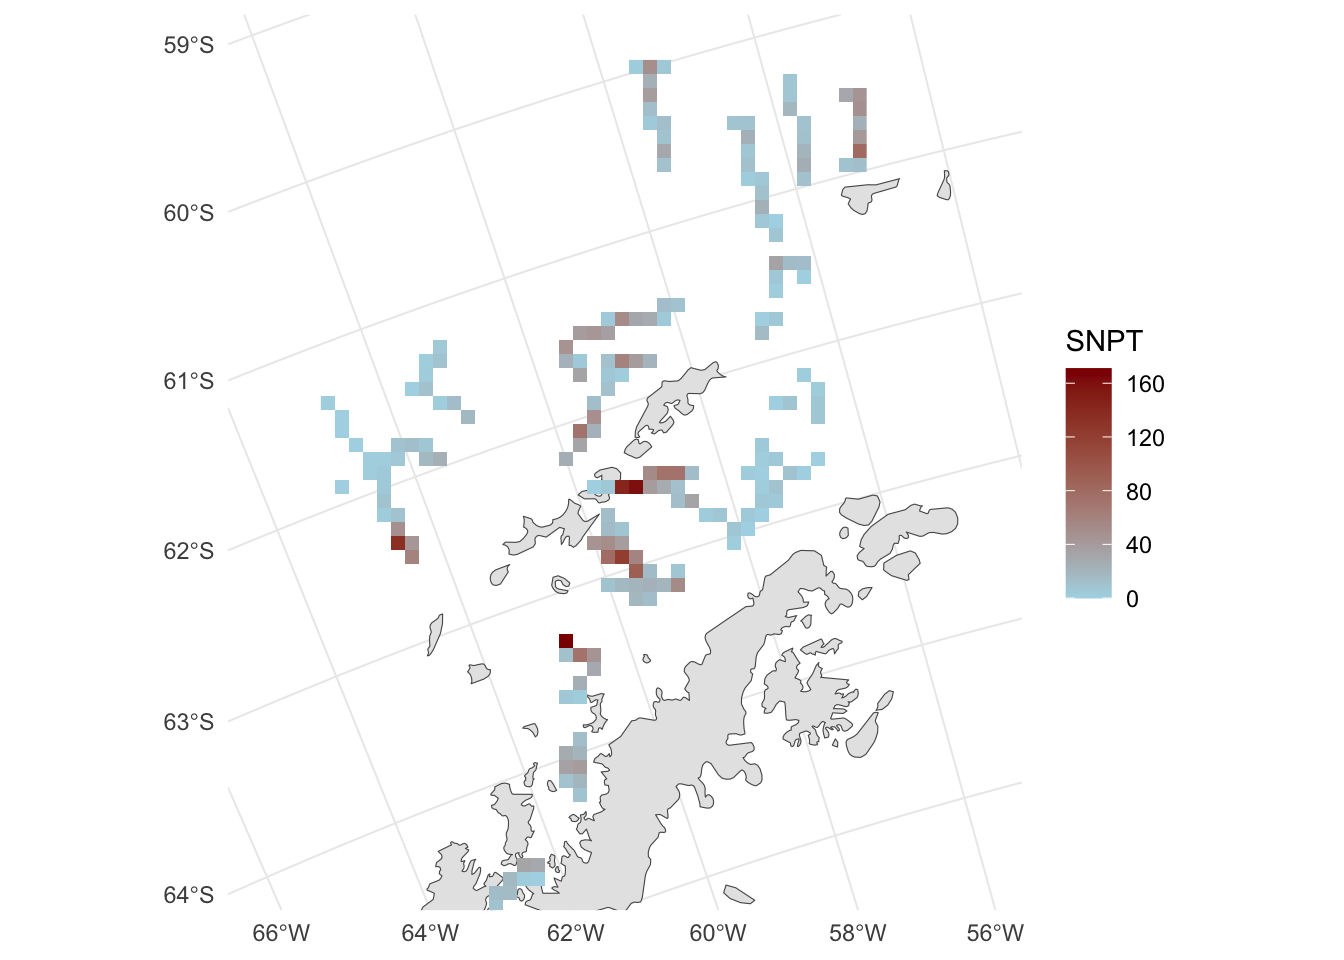
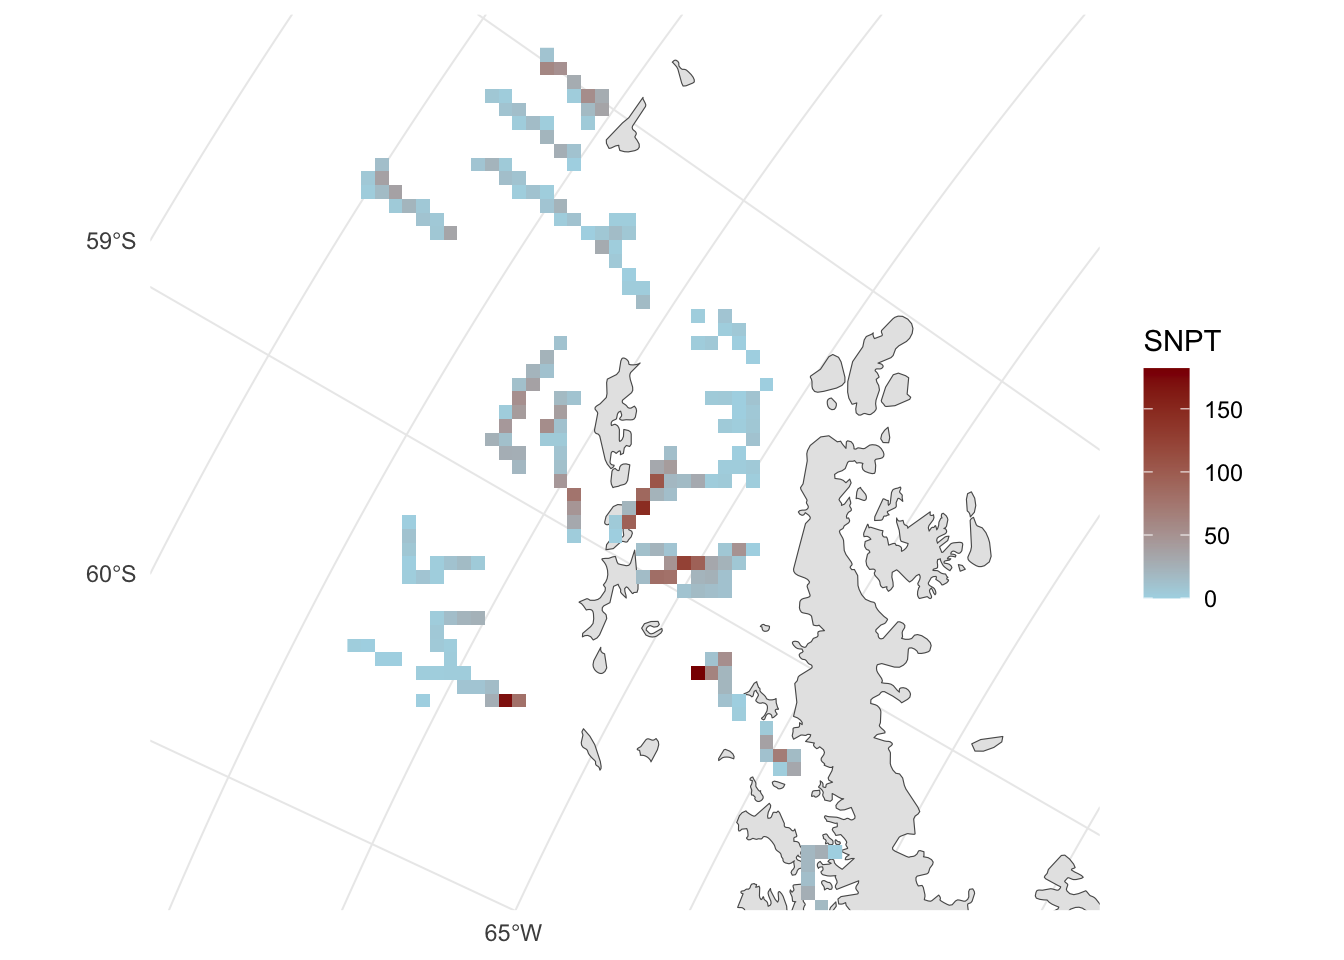
Change over from SG tto ANT terminology

diff --git a/docs/02_stations.html b/docs/02_stations.html
@@ -7,7 +7,7 @@
 <meta name="viewport" content="width=device-width, initial-scale=1.0, user-scalable=yes">
 
 
-<title>Predator summary</title>
+<title>Station summary</title>
 <style>
 code{white-space: pre-wrap;}
 span.smallcaps{font-variant: small-caps;}
@@ -20,69 +20,6 @@ ul.task-list li input[type="checkbox"] {
   margin: 0 0.8em 0.2em -1.6em;
   vertical-align: middle;
 }
-pre > code.sourceCode { white-space: pre; position: relative; }
-pre > code.sourceCode > span { display: inline-block; line-height: 1.25; }
-pre > code.sourceCode > span:empty { height: 1.2em; }
-.sourceCode { overflow: visible; }
-code.sourceCode > span { color: inherit; text-decoration: inherit; }
-div.sourceCode { margin: 1em 0; }
-pre.sourceCode { margin: 0; }
-@media screen {
-div.sourceCode { overflow: auto; }
-}
-@media print {
-pre > code.sourceCode { white-space: pre-wrap; }
-pre > code.sourceCode > span { text-indent: -5em; padding-left: 5em; }
-}
-pre.numberSource code
-  { counter-reset: source-line 0; }
-pre.numberSource code > span
-  { position: relative; left: -4em; counter-increment: source-line; }
-pre.numberSource code > span > a:first-child::before
-  { content: counter(source-line);
-    position: relative; left: -1em; text-align: right; vertical-align: baseline;
-    border: none; display: inline-block;
-    -webkit-touch-callout: none; -webkit-user-select: none;
-    -khtml-user-select: none; -moz-user-select: none;
-    -ms-user-select: none; user-select: none;
-    padding: 0 4px; width: 4em;
-    color: #aaaaaa;
-  }
-pre.numberSource { margin-left: 3em; border-left: 1px solid #aaaaaa;  padding-left: 4px; }
-div.sourceCode
-  {   }
-@media screen {
-pre > code.sourceCode > span > a:first-child::before { text-decoration: underline; }
-}
-code span.al { color: #ff0000; font-weight: bold; } /* Alert */
-code span.an { color: #60a0b0; font-weight: bold; font-style: italic; } /* Annotation */
-code span.at { color: #7d9029; } /* Attribute */
-code span.bn { color: #40a070; } /* BaseN */
-code span.bu { color: #008000; } /* BuiltIn */
-code span.cf { color: #007020; font-weight: bold; } /* ControlFlow */
-code span.ch { color: #4070a0; } /* Char */
-code span.cn { color: #880000; } /* Constant */
-code span.co { color: #60a0b0; font-style: italic; } /* Comment */
-code span.cv { color: #60a0b0; font-weight: bold; font-style: italic; } /* CommentVar */
-code span.do { color: #ba2121; font-style: italic; } /* Documentation */
-code span.dt { color: #902000; } /* DataType */
-code span.dv { color: #40a070; } /* DecVal */
-code span.er { color: #ff0000; font-weight: bold; } /* Error */
-code span.ex { } /* Extension */
-code span.fl { color: #40a070; } /* Float */
-code span.fu { color: #06287e; } /* Function */
-code span.im { color: #008000; font-weight: bold; } /* Import */
-code span.in { color: #60a0b0; font-weight: bold; font-style: italic; } /* Information */
-code span.kw { color: #007020; font-weight: bold; } /* Keyword */
-code span.op { color: #666666; } /* Operator */
-code span.ot { color: #007020; } /* Other */
-code span.pp { color: #bc7a00; } /* Preprocessor */
-code span.sc { color: #4070a0; } /* SpecialChar */
-code span.ss { color: #bb6688; } /* SpecialString */
-code span.st { color: #4070a0; } /* String */
-code span.va { color: #19177c; } /* Variable */
-code span.vs { color: #4070a0; } /* VerbatimString */
-code span.wa { color: #60a0b0; font-weight: bold; font-style: italic; } /* Warning */
 </style>
 
 
@@ -108,7 +45,7 @@ code span.wa { color: #60a0b0; font-weight: bold; font-style: italic; } /* Warni
 
 <header id="title-block-header" class="quarto-title-block default">
 <div class="quarto-title">
-<h1 class="title">Predator summary</h1>
+<h1 class="title">Station summary</h1>
 </div>
 
 
@@ -123,96 +60,8 @@ code span.wa { color: #60a0b0; font-weight: bold; font-style: italic; } /* Warni
 
 </header>
 
-<section id="south-georgia-winter-predators" class="level2">
-<h2 class="anchored" data-anchor-id="south-georgia-winter-predators">South Georgia winter predators</h2>
-<section id="counts" class="level3">
-<h3 class="anchored" data-anchor-id="counts">Counts</h3>
-<p>The six most abundant species.</p>
-<div class="cell">
-<details>
-<summary>Code</summary>
-<div class="sourceCode cell-code" id="cb1"><pre class="sourceCode r code-with-copy"><code class="sourceCode r"><span id="cb1-1"><a href="#cb1-1" aria-hidden="true" tabindex="-1"></a>top_six <span class="ot">&lt;-</span> predators_agg <span class="sc">%&gt;%</span> </span>
-<span id="cb1-2"><a href="#cb1-2" aria-hidden="true" tabindex="-1"></a>  <span class="fu">group_by</span>(species) <span class="sc">%&gt;%</span> </span>
-<span id="cb1-3"><a href="#cb1-3" aria-hidden="true" tabindex="-1"></a>  <span class="fu">summarize</span>(<span class="at">total_count =</span> <span class="fu">sum</span>(count)) <span class="sc">%&gt;%</span> </span>
-<span id="cb1-4"><a href="#cb1-4" aria-hidden="true" tabindex="-1"></a>  <span class="fu">arrange</span>(<span class="fu">desc</span>(total_count)) <span class="sc">%&gt;%</span></span>
-<span id="cb1-5"><a href="#cb1-5" aria-hidden="true" tabindex="-1"></a>  <span class="fu">slice</span>(<span class="dv">1</span><span class="sc">:</span><span class="dv">6</span>)</span>
-<span id="cb1-6"><a href="#cb1-6" aria-hidden="true" tabindex="-1"></a></span>
-<span id="cb1-7"><a href="#cb1-7" aria-hidden="true" tabindex="-1"></a>top_six</span></code><button title="Copy to Clipboard" class="code-copy-button"><i class="bi"></i></button></pre></div>
-</details>
-<div class="cell-output cell-output-stdout">
-<pre><code># A tibble: 6 × 2
-  species total_count
-  &lt;chr&gt;         &lt;dbl&gt;
-1 SNPT          17347
-2 FUSE           9665
-3 ADPN           9578
-4 CRSE           3858
-5 ANPT           3367
-6 ANFU           1476</code></pre>
-</div>
-</div>
-<div class="cell">
-<details>
-<summary>Code</summary>
-<div class="sourceCode cell-code" id="cb3"><pre class="sourceCode r code-with-copy"><code class="sourceCode r"><span id="cb3-1"><a href="#cb3-1" aria-hidden="true" tabindex="-1"></a>top_six_plot_data <span class="ot">&lt;-</span> predators_agg <span class="sc">%&gt;%</span> </span>
-<span id="cb3-2"><a href="#cb3-2" aria-hidden="true" tabindex="-1"></a>  <span class="fu">semi_join</span>(top_six, <span class="at">by =</span> <span class="st">"species"</span>) <span class="sc">%&gt;%</span> </span>
-<span id="cb3-3"><a href="#cb3-3" aria-hidden="true" tabindex="-1"></a>  <span class="fu">group_by</span>(year, species) <span class="sc">%&gt;%</span> </span>
-<span id="cb3-4"><a href="#cb3-4" aria-hidden="true" tabindex="-1"></a>  <span class="fu">summarize</span>(<span class="at">total =</span> <span class="fu">sum</span>(count), <span class="at">.groups =</span> <span class="st">"drop"</span>) <span class="sc">%&gt;%</span> </span>
-<span id="cb3-5"><a href="#cb3-5" aria-hidden="true" tabindex="-1"></a>  <span class="fu">mutate</span>(<span class="at">species =</span> <span class="fu">fct_reorder</span>(species, total, <span class="at">.fun =</span> sum),</span>
-<span id="cb3-6"><a href="#cb3-6" aria-hidden="true" tabindex="-1"></a>         <span class="at">year =</span> <span class="fu">factor</span>(year, <span class="at">levels =</span> <span class="dv">2016</span><span class="sc">:</span><span class="dv">2012</span>))</span>
-<span id="cb3-7"><a href="#cb3-7" aria-hidden="true" tabindex="-1"></a>year_labels <span class="ot">&lt;-</span> top_six_plot_data <span class="sc">%&gt;%</span> </span>
-<span id="cb3-8"><a href="#cb3-8" aria-hidden="true" tabindex="-1"></a>  <span class="fu">filter</span>(species <span class="sc">==</span> <span class="st">"SNPT"</span>) <span class="sc">%&gt;%</span> </span>
-<span id="cb3-9"><a href="#cb3-9" aria-hidden="true" tabindex="-1"></a>  <span class="fu">arrange</span>(<span class="fu">desc</span>(year)) <span class="sc">%&gt;%</span>                   <span class="co"># Make the labels show up at</span></span>
-<span id="cb3-10"><a href="#cb3-10" aria-hidden="true" tabindex="-1"></a>  <span class="fu">mutate</span>(<span class="at">total =</span> <span class="fu">cumsum</span>(total) <span class="sc">-</span> total <span class="sc">/</span> <span class="dv">2</span>) <span class="co"># correct y-axis position</span></span>
-<span id="cb3-11"><a href="#cb3-11" aria-hidden="true" tabindex="-1"></a></span>
-<span id="cb3-12"><a href="#cb3-12" aria-hidden="true" tabindex="-1"></a><span class="fu">ggplot</span>(top_six_plot_data, <span class="fu">aes</span>(species, total, <span class="at">group =</span> year)) <span class="sc">+</span></span>
-<span id="cb3-13"><a href="#cb3-13" aria-hidden="true" tabindex="-1"></a>  <span class="fu">geom_col</span>(<span class="at">color =</span> <span class="st">"black"</span>, <span class="at">fill =</span> <span class="st">"grey80"</span>) <span class="sc">+</span></span>
-<span id="cb3-14"><a href="#cb3-14" aria-hidden="true" tabindex="-1"></a>  <span class="fu">geom_text</span>(<span class="fu">aes</span>(<span class="at">label =</span> year), year_labels) <span class="sc">+</span></span>
-<span id="cb3-15"><a href="#cb3-15" aria-hidden="true" tabindex="-1"></a>  <span class="fu">labs</span>(<span class="at">y =</span> <span class="st">"Total species count"</span>) <span class="sc">+</span></span>
-<span id="cb3-16"><a href="#cb3-16" aria-hidden="true" tabindex="-1"></a>  <span class="fu">theme_classic</span>() <span class="sc">+</span></span>
-<span id="cb3-17"><a href="#cb3-17" aria-hidden="true" tabindex="-1"></a>  <span class="fu">theme</span>(<span class="at">axis.title.x =</span> <span class="fu">element_blank</span>())</span></code><button title="Copy to Clipboard" class="code-copy-button"><i class="bi"></i></button></pre></div>
-</details>
-<div class="cell-output-display">
-<p><img src="02_stations_files/figure-html/unnamed-chunk-3-1.png" class="img-fluid" width="672"></p>
-</div>
-</div>
-</section>
-<section id="maps" class="level3">
-<h3 class="anchored" data-anchor-id="maps">Maps</h3>
-<div class="cell">
-<details>
-<summary>Code</summary>
-<div class="sourceCode cell-code" id="cb4"><pre class="sourceCode r code-with-copy"><code class="sourceCode r"><span id="cb4-1"><a href="#cb4-1" aria-hidden="true" tabindex="-1"></a>snpt_sf <span class="ot">&lt;-</span> predators_agg <span class="sc">%&gt;%</span> </span>
-<span id="cb4-2"><a href="#cb4-2" aria-hidden="true" tabindex="-1"></a>  <span class="fu">filter</span>(species <span class="sc">==</span> <span class="st">"SNPT"</span>,</span>
-<span id="cb4-3"><a href="#cb4-3" aria-hidden="true" tabindex="-1"></a>         year <span class="sc">==</span> <span class="dv">2016</span>) <span class="sc">%&gt;%</span> </span>
-<span id="cb4-4"><a href="#cb4-4" aria-hidden="true" tabindex="-1"></a>  sf<span class="sc">::</span><span class="fu">st_as_sf</span>(<span class="at">coords =</span> <span class="fu">c</span>(<span class="st">"lon_mean"</span>, <span class="st">"lat_mean"</span>), </span>
-<span id="cb4-5"><a href="#cb4-5" aria-hidden="true" tabindex="-1"></a>               <span class="at">crs =</span> sp<span class="sc">::</span><span class="fu">CRS</span>(<span class="st">"+proj=longlat +datum=WGS84"</span>))</span>
-<span id="cb4-6"><a href="#cb4-6" aria-hidden="true" tabindex="-1"></a></span>
-<span id="cb4-7"><a href="#cb4-7" aria-hidden="true" tabindex="-1"></a>snpt_stars <span class="ot">&lt;-</span> <span class="fu">rasterize_counts</span>(snpt_sf, <span class="at">res =</span> <span class="fl">1e4</span>, <span class="at">layer_name =</span> <span class="st">"SNPT"</span>)</span>
-<span id="cb4-8"><a href="#cb4-8" aria-hidden="true" tabindex="-1"></a></span>
-<span id="cb4-9"><a href="#cb4-9" aria-hidden="true" tabindex="-1"></a>map_lim <span class="ot">&lt;-</span> sf<span class="sc">::</span><span class="fu">st_bbox</span>(snpt_sf) <span class="sc">%&gt;%</span> </span>
-<span id="cb4-10"><a href="#cb4-10" aria-hidden="true" tabindex="-1"></a>  sf<span class="sc">::</span><span class="fu">st_as_sfc</span>(<span class="at">crs =</span> <span class="st">"EPSG:4326"</span>) <span class="sc">%&gt;%</span> </span>
-<span id="cb4-11"><a href="#cb4-11" aria-hidden="true" tabindex="-1"></a>  sf<span class="sc">::</span><span class="fu">st_transform</span>(<span class="fu">sg_proj</span>()) <span class="sc">%&gt;%</span> </span>
-<span id="cb4-12"><a href="#cb4-12" aria-hidden="true" tabindex="-1"></a>  sf<span class="sc">::</span><span class="fu">st_bbox</span>()</span>
-<span id="cb4-13"><a href="#cb4-13" aria-hidden="true" tabindex="-1"></a></span>
-<span id="cb4-14"><a href="#cb4-14" aria-hidden="true" tabindex="-1"></a><span class="fu">ggplot</span>() <span class="sc">+</span></span>
-<span id="cb4-15"><a href="#cb4-15" aria-hidden="true" tabindex="-1"></a>  <span class="fu">geom_sf</span>(<span class="at">data =</span> sg_sf) <span class="sc">+</span></span>
-<span id="cb4-16"><a href="#cb4-16" aria-hidden="true" tabindex="-1"></a>  stars<span class="sc">::</span><span class="fu">geom_stars</span>(<span class="fu">aes</span>(<span class="at">fill =</span> SNPT), <span class="at">data =</span> snpt_stars) <span class="sc">+</span></span>
-<span id="cb4-17"><a href="#cb4-17" aria-hidden="true" tabindex="-1"></a>  <span class="fu">scale_fill_gradient</span>(<span class="at">low =</span> <span class="st">"lightblue"</span>, <span class="at">high =</span> <span class="st">"darkred"</span>,</span>
-<span id="cb4-18"><a href="#cb4-18" aria-hidden="true" tabindex="-1"></a>                      <span class="at">na.value =</span> <span class="cn">NA</span>) <span class="sc">+</span></span>
-<span id="cb4-19"><a href="#cb4-19" aria-hidden="true" tabindex="-1"></a>  <span class="fu">expand_limits</span>(<span class="at">fill =</span> <span class="dv">0</span>) <span class="sc">+</span></span>
-<span id="cb4-20"><a href="#cb4-20" aria-hidden="true" tabindex="-1"></a>  <span class="fu">coord_sf</span>(<span class="at">xlim =</span> map_lim[<span class="fu">c</span>(<span class="st">"xmin"</span>, <span class="st">"xmax"</span>)],</span>
-<span id="cb4-21"><a href="#cb4-21" aria-hidden="true" tabindex="-1"></a>           <span class="at">ylim =</span> map_lim[<span class="fu">c</span>(<span class="st">"ymin"</span>, <span class="st">"ymax"</span>)],</span>
-<span id="cb4-22"><a href="#cb4-22" aria-hidden="true" tabindex="-1"></a>           <span class="at">expand =</span> <span class="cn">FALSE</span>,</span>
-<span id="cb4-23"><a href="#cb4-23" aria-hidden="true" tabindex="-1"></a>           <span class="at">crs =</span> <span class="fu">sg_proj</span>()) <span class="sc">+</span></span>
-<span id="cb4-24"><a href="#cb4-24" aria-hidden="true" tabindex="-1"></a>  <span class="fu">theme_minimal</span>() <span class="sc">+</span></span>
-<span id="cb4-25"><a href="#cb4-25" aria-hidden="true" tabindex="-1"></a>  <span class="fu">theme</span>(<span class="at">axis.title =</span> <span class="fu">element_blank</span>())</span></code><button title="Copy to Clipboard" class="code-copy-button"><i class="bi"></i></button></pre></div>
-</details>
-<div class="cell-output-display">
-<p><img src="02_stations_files/figure-html/snpt_map-1.png" class="img-fluid" width="672"></p>
-</div>
-</div>
-</section>
+<section id="station-maps" class="level2">
+<h2 class="anchored" data-anchor-id="station-maps">Station maps</h2>
 </section>
 
 </main>

diff --git a/docs/01_predators.html b/docs/01_predators.html
@@ -123,8 +123,8 @@ code span.wa { color: #60a0b0; font-weight: bold; font-style: italic; } /* Warni
 
 </header>
 
-<section id="south-georgia-winter-predators" class="level2">
-<h2 class="anchored" data-anchor-id="south-georgia-winter-predators">South Georgia winter predators</h2>
+<section id="antarctic-peninsula-winter-predators" class="level2">
+<h2 class="anchored" data-anchor-id="antarctic-peninsula-winter-predators">Antarctic Peninsula winter predators</h2>
 <section id="counts" class="level3">
 <h3 class="anchored" data-anchor-id="counts">Counts</h3>
 <p>The six most abundant species.</p>
@@ -185,28 +185,27 @@ code span.wa { color: #60a0b0; font-weight: bold; font-style: italic; } /* Warni
 <div class="sourceCode cell-code" id="cb4"><pre class="sourceCode r code-with-copy"><code class="sourceCode r"><span id="cb4-1"><a href="#cb4-1" aria-hidden="true" tabindex="-1"></a>snpt_sf <span class="ot">&lt;-</span> predators_agg <span class="sc">%&gt;%</span> </span>
 <span id="cb4-2"><a href="#cb4-2" aria-hidden="true" tabindex="-1"></a>  <span class="fu">filter</span>(species <span class="sc">==</span> <span class="st">"SNPT"</span>,</span>
 <span id="cb4-3"><a href="#cb4-3" aria-hidden="true" tabindex="-1"></a>         year <span class="sc">==</span> <span class="dv">2016</span>) <span class="sc">%&gt;%</span> </span>
-<span id="cb4-4"><a href="#cb4-4" aria-hidden="true" tabindex="-1"></a>  sf<span class="sc">::</span><span class="fu">st_as_sf</span>(<span class="at">coords =</span> <span class="fu">c</span>(<span class="st">"lon_mean"</span>, <span class="st">"lat_mean"</span>), </span>
-<span id="cb4-5"><a href="#cb4-5" aria-hidden="true" tabindex="-1"></a>               <span class="at">crs =</span> sp<span class="sc">::</span><span class="fu">CRS</span>(<span class="st">"+proj=longlat +datum=WGS84"</span>))</span>
-<span id="cb4-6"><a href="#cb4-6" aria-hidden="true" tabindex="-1"></a></span>
-<span id="cb4-7"><a href="#cb4-7" aria-hidden="true" tabindex="-1"></a>snpt_stars <span class="ot">&lt;-</span> <span class="fu">rasterize_counts</span>(snpt_sf, <span class="at">res =</span> <span class="fl">1e4</span>, <span class="at">layer_name =</span> <span class="st">"SNPT"</span>)</span>
-<span id="cb4-8"><a href="#cb4-8" aria-hidden="true" tabindex="-1"></a></span>
-<span id="cb4-9"><a href="#cb4-9" aria-hidden="true" tabindex="-1"></a>map_lim <span class="ot">&lt;-</span> sf<span class="sc">::</span><span class="fu">st_bbox</span>(snpt_sf) <span class="sc">%&gt;%</span> </span>
-<span id="cb4-10"><a href="#cb4-10" aria-hidden="true" tabindex="-1"></a>  sf<span class="sc">::</span><span class="fu">st_as_sfc</span>(<span class="at">crs =</span> <span class="st">"EPSG:4326"</span>) <span class="sc">%&gt;%</span> </span>
-<span id="cb4-11"><a href="#cb4-11" aria-hidden="true" tabindex="-1"></a>  sf<span class="sc">::</span><span class="fu">st_transform</span>(<span class="fu">sg_proj</span>()) <span class="sc">%&gt;%</span> </span>
-<span id="cb4-12"><a href="#cb4-12" aria-hidden="true" tabindex="-1"></a>  sf<span class="sc">::</span><span class="fu">st_bbox</span>()</span>
-<span id="cb4-13"><a href="#cb4-13" aria-hidden="true" tabindex="-1"></a></span>
-<span id="cb4-14"><a href="#cb4-14" aria-hidden="true" tabindex="-1"></a><span class="fu">ggplot</span>() <span class="sc">+</span></span>
-<span id="cb4-15"><a href="#cb4-15" aria-hidden="true" tabindex="-1"></a>  <span class="fu">geom_sf</span>(<span class="at">data =</span> sg_sf) <span class="sc">+</span></span>
-<span id="cb4-16"><a href="#cb4-16" aria-hidden="true" tabindex="-1"></a>  stars<span class="sc">::</span><span class="fu">geom_stars</span>(<span class="fu">aes</span>(<span class="at">fill =</span> SNPT), <span class="at">data =</span> snpt_stars) <span class="sc">+</span></span>
-<span id="cb4-17"><a href="#cb4-17" aria-hidden="true" tabindex="-1"></a>  <span class="fu">scale_fill_gradient</span>(<span class="at">low =</span> <span class="st">"lightblue"</span>, <span class="at">high =</span> <span class="st">"darkred"</span>,</span>
-<span id="cb4-18"><a href="#cb4-18" aria-hidden="true" tabindex="-1"></a>                      <span class="at">na.value =</span> <span class="cn">NA</span>) <span class="sc">+</span></span>
-<span id="cb4-19"><a href="#cb4-19" aria-hidden="true" tabindex="-1"></a>  <span class="fu">expand_limits</span>(<span class="at">fill =</span> <span class="dv">0</span>) <span class="sc">+</span></span>
-<span id="cb4-20"><a href="#cb4-20" aria-hidden="true" tabindex="-1"></a>  <span class="fu">coord_sf</span>(<span class="at">xlim =</span> map_lim[<span class="fu">c</span>(<span class="st">"xmin"</span>, <span class="st">"xmax"</span>)],</span>
-<span id="cb4-21"><a href="#cb4-21" aria-hidden="true" tabindex="-1"></a>           <span class="at">ylim =</span> map_lim[<span class="fu">c</span>(<span class="st">"ymin"</span>, <span class="st">"ymax"</span>)],</span>
-<span id="cb4-22"><a href="#cb4-22" aria-hidden="true" tabindex="-1"></a>           <span class="at">expand =</span> <span class="cn">FALSE</span>,</span>
-<span id="cb4-23"><a href="#cb4-23" aria-hidden="true" tabindex="-1"></a>           <span class="at">crs =</span> <span class="fu">sg_proj</span>()) <span class="sc">+</span></span>
-<span id="cb4-24"><a href="#cb4-24" aria-hidden="true" tabindex="-1"></a>  <span class="fu">theme_minimal</span>() <span class="sc">+</span></span>
-<span id="cb4-25"><a href="#cb4-25" aria-hidden="true" tabindex="-1"></a>  <span class="fu">theme</span>(<span class="at">axis.title =</span> <span class="fu">element_blank</span>())</span></code><button title="Copy to Clipboard" class="code-copy-button"><i class="bi"></i></button></pre></div>
+<span id="cb4-4"><a href="#cb4-4" aria-hidden="true" tabindex="-1"></a>  <span class="fu">latlon_to_sf</span>(<span class="at">coords =</span> <span class="fu">c</span>(<span class="st">"lon_mean"</span>, <span class="st">"lat_mean"</span>))</span>
+<span id="cb4-5"><a href="#cb4-5" aria-hidden="true" tabindex="-1"></a></span>
+<span id="cb4-6"><a href="#cb4-6" aria-hidden="true" tabindex="-1"></a>snpt_stars <span class="ot">&lt;-</span> <span class="fu">rasterize_counts</span>(snpt_sf, <span class="at">res =</span> <span class="fl">1e4</span>, <span class="at">layer_name =</span> <span class="st">"SNPT"</span>)</span>
+<span id="cb4-7"><a href="#cb4-7" aria-hidden="true" tabindex="-1"></a></span>
+<span id="cb4-8"><a href="#cb4-8" aria-hidden="true" tabindex="-1"></a>map_lim <span class="ot">&lt;-</span> sf<span class="sc">::</span><span class="fu">st_bbox</span>(snpt_sf) <span class="sc">%&gt;%</span> </span>
+<span id="cb4-9"><a href="#cb4-9" aria-hidden="true" tabindex="-1"></a>  sf<span class="sc">::</span><span class="fu">st_as_sfc</span>(<span class="at">crs =</span> <span class="st">"EPSG:4326"</span>) <span class="sc">%&gt;%</span> </span>
+<span id="cb4-10"><a href="#cb4-10" aria-hidden="true" tabindex="-1"></a>  sf<span class="sc">::</span><span class="fu">st_transform</span>(<span class="fu">ant_proj</span>()) <span class="sc">%&gt;%</span> </span>
+<span id="cb4-11"><a href="#cb4-11" aria-hidden="true" tabindex="-1"></a>  sf<span class="sc">::</span><span class="fu">st_bbox</span>()</span>
+<span id="cb4-12"><a href="#cb4-12" aria-hidden="true" tabindex="-1"></a></span>
+<span id="cb4-13"><a href="#cb4-13" aria-hidden="true" tabindex="-1"></a><span class="fu">ggplot</span>() <span class="sc">+</span></span>
+<span id="cb4-14"><a href="#cb4-14" aria-hidden="true" tabindex="-1"></a>  <span class="fu">geom_sf</span>(<span class="at">data =</span> ant_sf) <span class="sc">+</span></span>
+<span id="cb4-15"><a href="#cb4-15" aria-hidden="true" tabindex="-1"></a>  stars<span class="sc">::</span><span class="fu">geom_stars</span>(<span class="fu">aes</span>(<span class="at">fill =</span> SNPT), <span class="at">data =</span> snpt_stars) <span class="sc">+</span></span>
+<span id="cb4-16"><a href="#cb4-16" aria-hidden="true" tabindex="-1"></a>  <span class="fu">scale_fill_gradient</span>(<span class="at">low =</span> <span class="st">"lightblue"</span>, <span class="at">high =</span> <span class="st">"darkred"</span>,</span>
+<span id="cb4-17"><a href="#cb4-17" aria-hidden="true" tabindex="-1"></a>                      <span class="at">na.value =</span> <span class="cn">NA</span>) <span class="sc">+</span></span>
+<span id="cb4-18"><a href="#cb4-18" aria-hidden="true" tabindex="-1"></a>  <span class="fu">expand_limits</span>(<span class="at">fill =</span> <span class="dv">0</span>) <span class="sc">+</span></span>
+<span id="cb4-19"><a href="#cb4-19" aria-hidden="true" tabindex="-1"></a>  <span class="fu">coord_sf</span>(<span class="at">xlim =</span> map_lim[<span class="fu">c</span>(<span class="st">"xmin"</span>, <span class="st">"xmax"</span>)],</span>
+<span id="cb4-20"><a href="#cb4-20" aria-hidden="true" tabindex="-1"></a>           <span class="at">ylim =</span> map_lim[<span class="fu">c</span>(<span class="st">"ymin"</span>, <span class="st">"ymax"</span>)],</span>
+<span id="cb4-21"><a href="#cb4-21" aria-hidden="true" tabindex="-1"></a>           <span class="at">expand =</span> <span class="cn">FALSE</span>,</span>
+<span id="cb4-22"><a href="#cb4-22" aria-hidden="true" tabindex="-1"></a>           <span class="at">crs =</span> <span class="fu">ant_proj</span>()) <span class="sc">+</span></span>
+<span id="cb4-23"><a href="#cb4-23" aria-hidden="true" tabindex="-1"></a>  <span class="fu">theme_minimal</span>() <span class="sc">+</span></span>
+<span id="cb4-24"><a href="#cb4-24" aria-hidden="true" tabindex="-1"></a>  <span class="fu">theme</span>(<span class="at">axis.title =</span> <span class="fu">element_blank</span>())</span></code><button title="Copy to Clipboard" class="code-copy-button"><i class="bi"></i></button></pre></div>
 </details>
 <div class="cell-output-display">
 <p><img src="01_predators_files/figure-html/snpt_map-1.png" class="img-fluid" width="672"></p>
